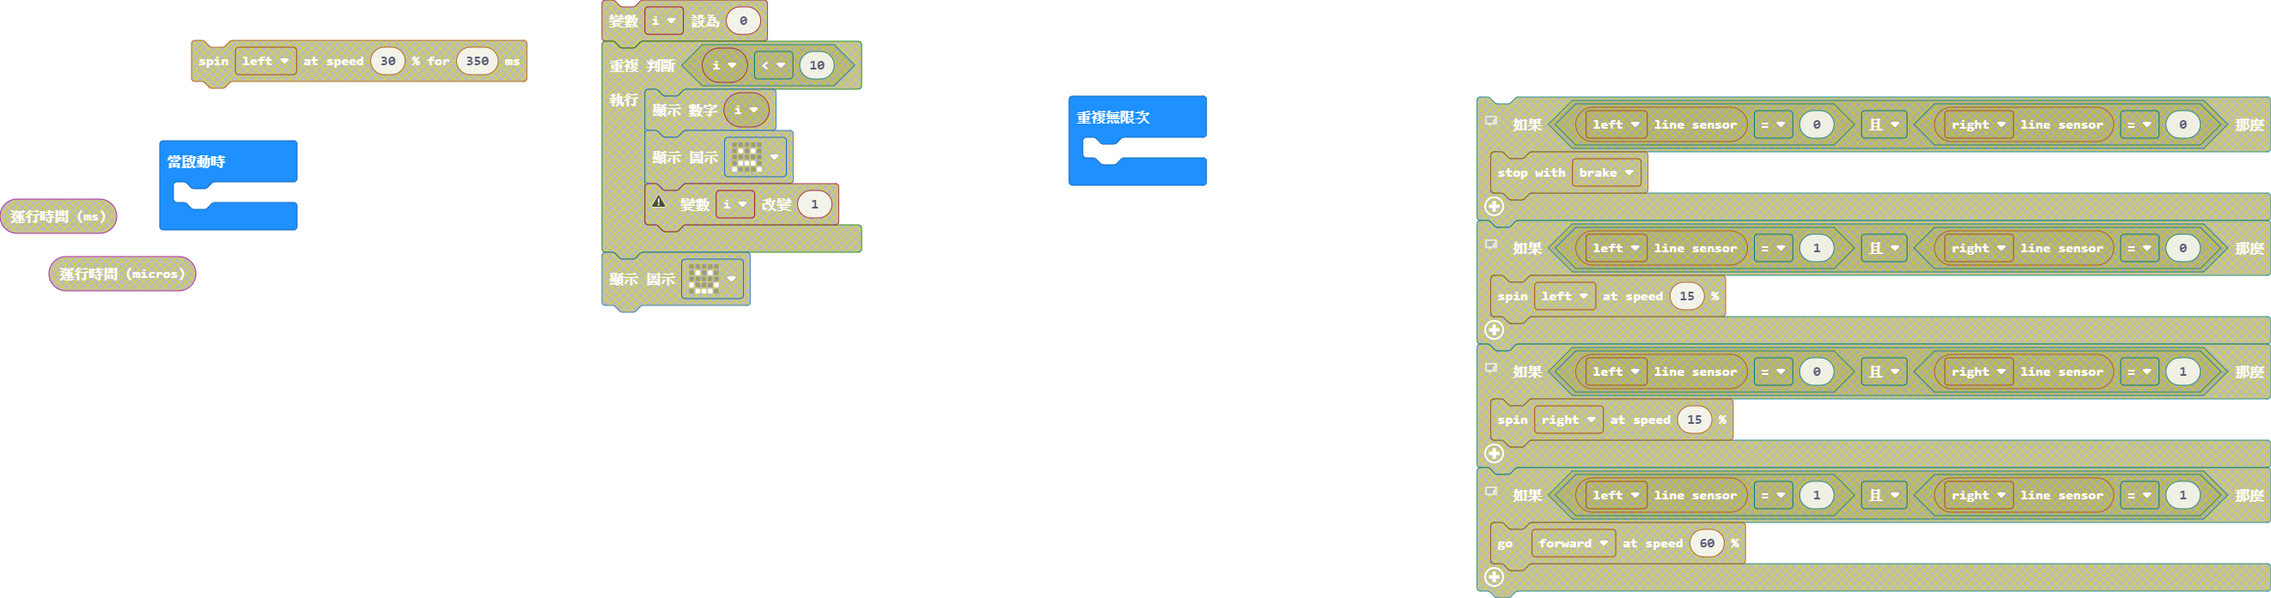
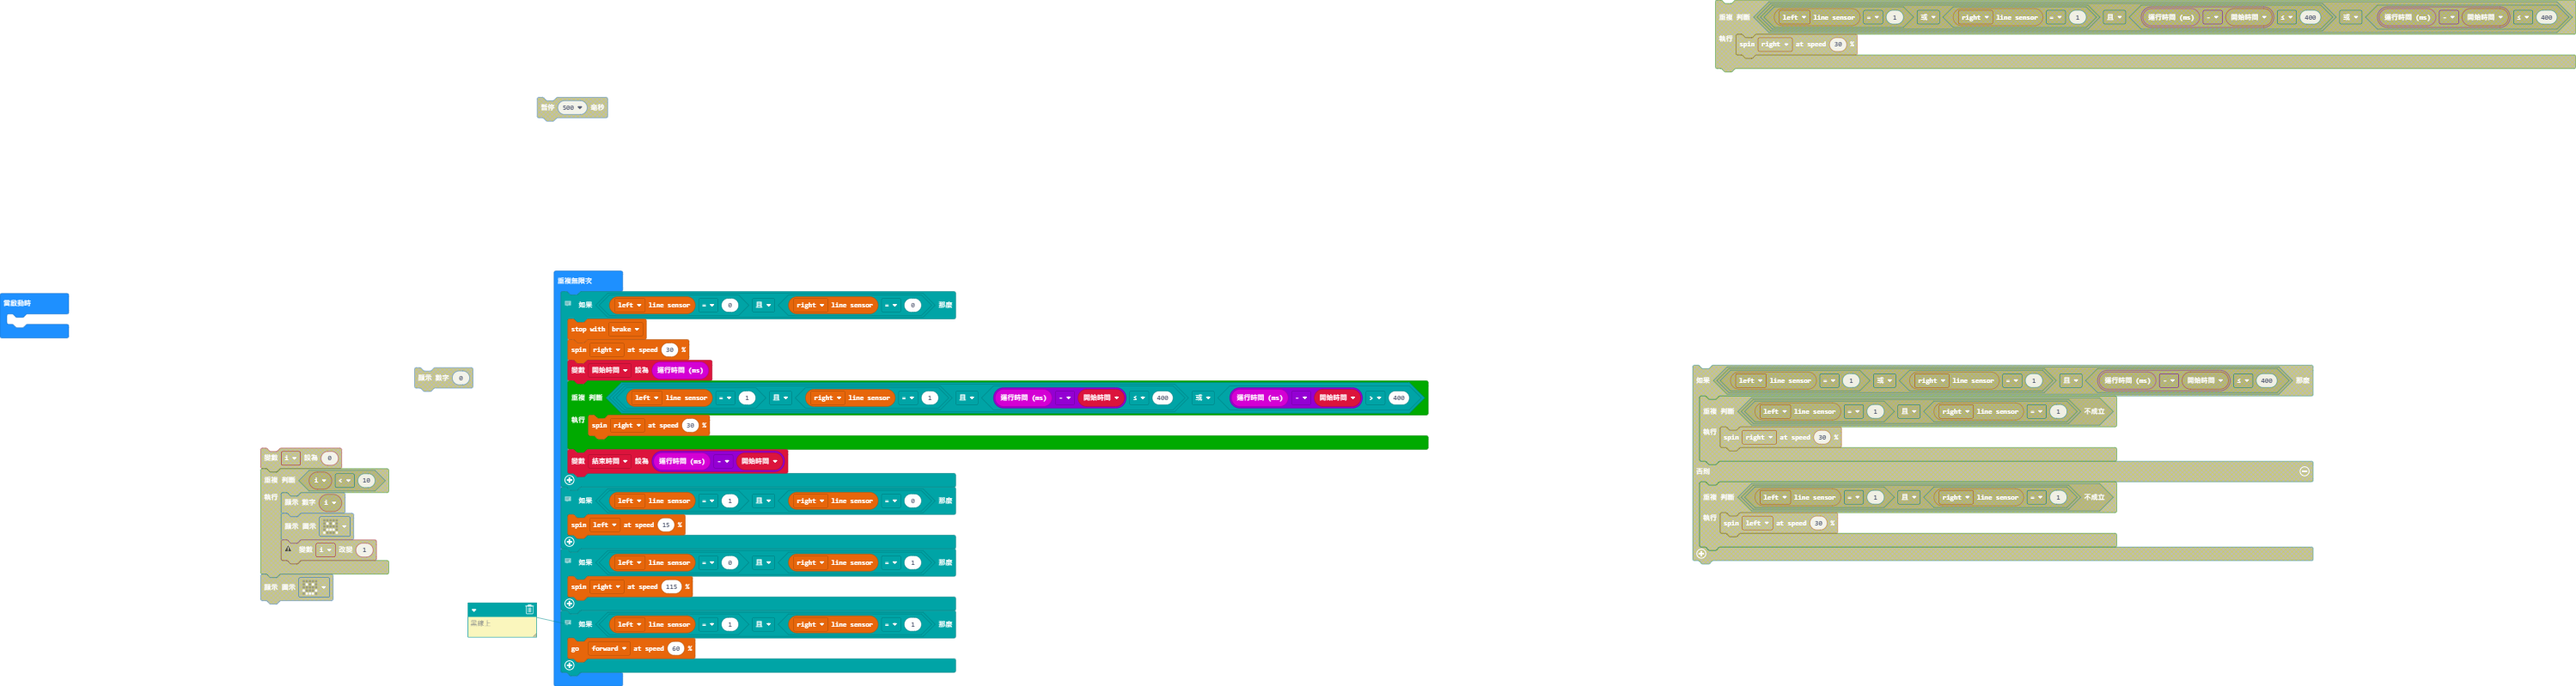
Update main.blocks, main.ts

diff --git a/main.ts b/main.ts
@@ -1,3 +1,27 @@
+let 開始時間 = 0
+let 結束時間 = 0
 basic.forever(function () {
-	
+    // 白線上
+    // 停下來
+    if (bitbot.readLine(BBLineSensor.Left) == 0 && bitbot.readLine(BBLineSensor.Right) == 0) {
+        bitbot.stop(BBStopMode.Brake)
+        bitbot.rotate(BBRobotDirection.Right, 30)
+        開始時間 = input.runningTime()
+        while (bitbot.readLine(BBLineSensor.Left) == 1 && bitbot.readLine(BBLineSensor.Right) == 1 && input.runningTime() - 開始時間 <= 400 || input.runningTime() - 開始時間 > 400) {
+            bitbot.rotate(BBRobotDirection.Right, 30)
+        }
+        結束時間 = input.runningTime() - 開始時間
+    }
+    // 右邊
+    if (bitbot.readLine(BBLineSensor.Left) == 1 && bitbot.readLine(BBLineSensor.Right) == 0) {
+        bitbot.rotate(BBRobotDirection.Left, 15)
+    }
+    // 左邊
+    if (bitbot.readLine(BBLineSensor.Left) == 0 && bitbot.readLine(BBLineSensor.Right) == 1) {
+        bitbot.rotate(BBRobotDirection.Right, 115)
+    }
+    // 黑線上
+    if (bitbot.readLine(BBLineSensor.Left) == 1 && bitbot.readLine(BBLineSensor.Right) == 1) {
+        bitbot.go(BBDirection.Forward, 60)
+    }
 })
